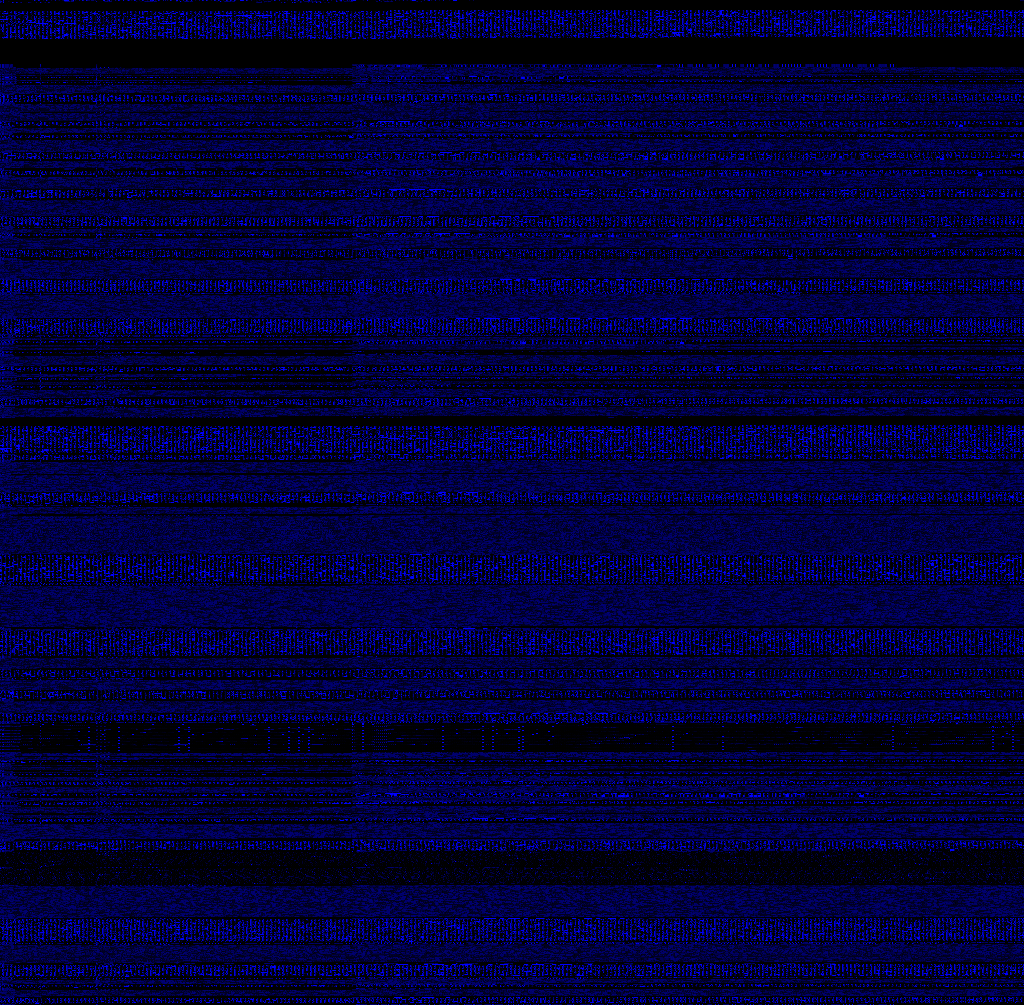
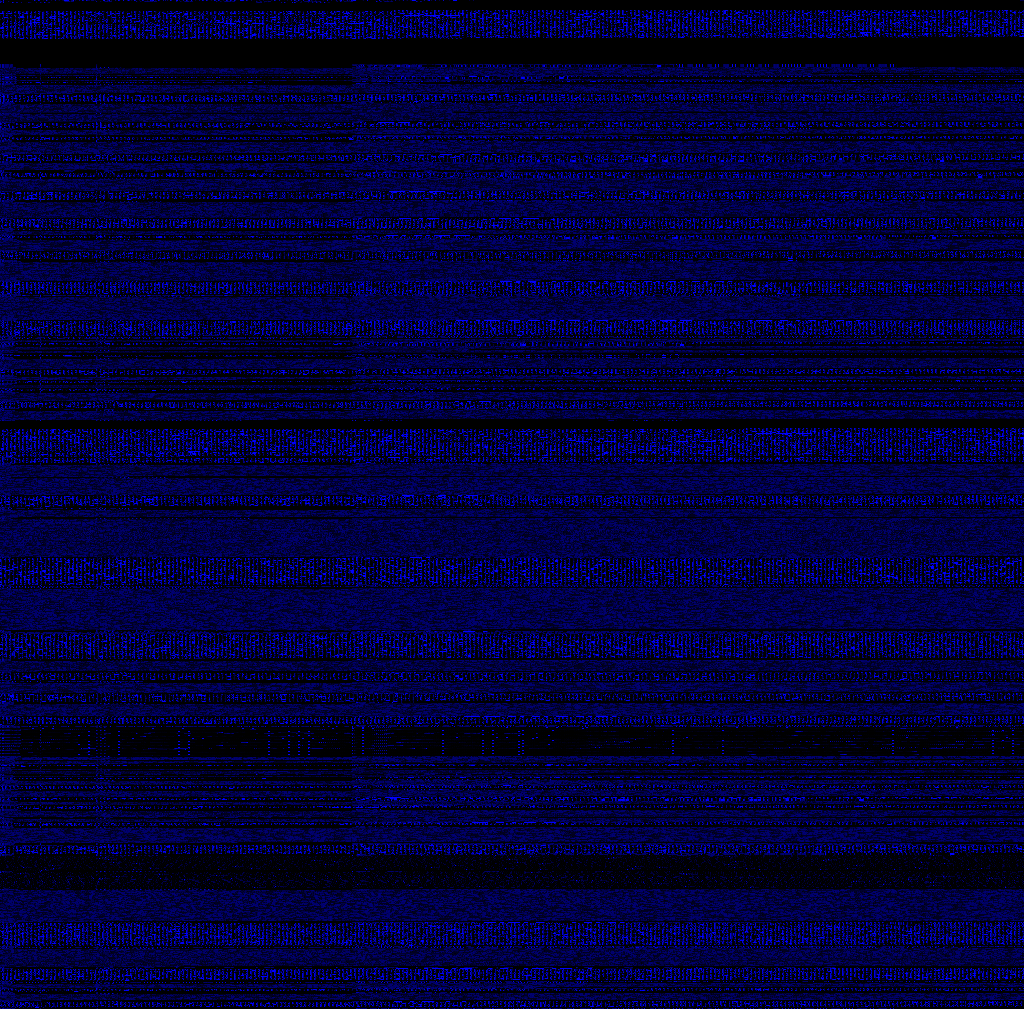
Update emulator and images

diff --git a/index.html b/index.html
@@ -75,8 +75,8 @@ You can copy and paste from there like normal.</p>
 	<dt>MinimalDiskImage [2022-01-07]</dt><dd>A small (~100KB) disk image containing only the necessary files to start Oberon. No compiler, no tools. So
 	  all you can use it for is editing Text files.</dd>
 	<dt>FullDiskImage [2022-01-07]</dt><dd>Full content of the original Project Oberon 2013, with some patches to make it more convenient in the emulator.</dd>
-	<dt>VanillaDiskImage [2021-01-19]</dt><dd>Full content of the Origina Project Oberon 2013, with only minimal patches to make it work in the JS emulator.</dd>
-	<dt>ExtendedOberonDiskImage [2021-10-02, v1.7]</dt><dd>Image based on Andreas Pirklbauer's <a href="https://github.com/andreaspirklbauer/Oberon-extended">Extended Oberon</a></dd>
+	<dt>VanillaDiskImage [2022-03-12]</dt><dd>Full content of the Origina Project Oberon 2013, with only minimal patches to make it work in the JS emulator.</dd>
+	<dt>ExtendedOberonDiskImage [2022-03-12, v1.10]</dt><dd>Image based on Andreas Pirklbauer's <a href="https://github.com/andreaspirklbauer/Oberon-extended">Extended Oberon</a></dd>
 	<dt>IntegratedOberonDiskImage [2020-11-29]</dt><dd>Image based on Charles Perkin's <a href="https://github.com/io-core/io">Integrated Oberon</a></dd>
 	<dt>BootFromSerialLine [2021-01-19]</dt><dd>Small image that only boots from a serial line (used with a serial line to another Oberon system)</dd>
 	<dt>ColorDiskImage [2022-01-07]</dt><dd>Image patched to support 16 colors.</dd>
@@ -84,6 +84,7 @@ You can copy and paste from there like normal.</p>
 	<dt>DebuggableDiskImage [2020-05-29]</dt><dd>Image that includes a <a href="https://github.com/schierlm/Oberon2013Modifications/tree/master/RescueSystem">Kernel debugger</a></dd>
 	<dt>FullDynmemDiskImage [2020-09-17]</dt><dd>Image supports changing the memory configuration and color support on every reset.</dd>
 	</dl>
+	<p>Images built in <b>March 2022</b> or later also work in other boards/emulators that support the Hardware Enumerator (or are 100% compatible to the original board).</p>
 </form>
 <script type="text/javascript">
 try {

diff --git a/webdriver.js b/webdriver.js
@@ -461,9 +461,13 @@ function WebDriver(imageName, width, height, dualSerial, configFile) {
 				var displayStart = (this.machine.getDisplayStart() & ~0xFFFFF) | 0x0E7F00;
 				return [ 1, -16, this.screen.width, this.screen.height, 128, displayStart];
 			case this.toHardwareId('16cV'):
-				var paletteStart = (this.machine.getDisplayStart() & ~0xFFFFF) | 0x0FFF80;
-				var displayStart = (this.machine.getDisplayStart() & ~0xFFFFF) | 0x09FF00;
-				return [ 1, 1, -16, paletteStart, this.screen.width, this.screen.height, 512, displayStart];
+				if (this.machine.colorSupported) {
+					var paletteStart = (this.machine.getDisplayStart() & ~0xFFFFF) | 0x0FFF80;
+					var displayStart = (this.machine.getDisplayStart() & ~0xFFFFF) | 0x09FF00;
+					return [ 1, 1, -16, paletteStart, this.screen.width, this.screen.height, 512, displayStart];
+				} else {
+					return [];
+				}
 			case this.toHardwareId('Rset'):
 				var romStart = (this.machine.getDisplayStart() & ~0xFFFFF) | 0x0FE000;
 				return [romStart];
